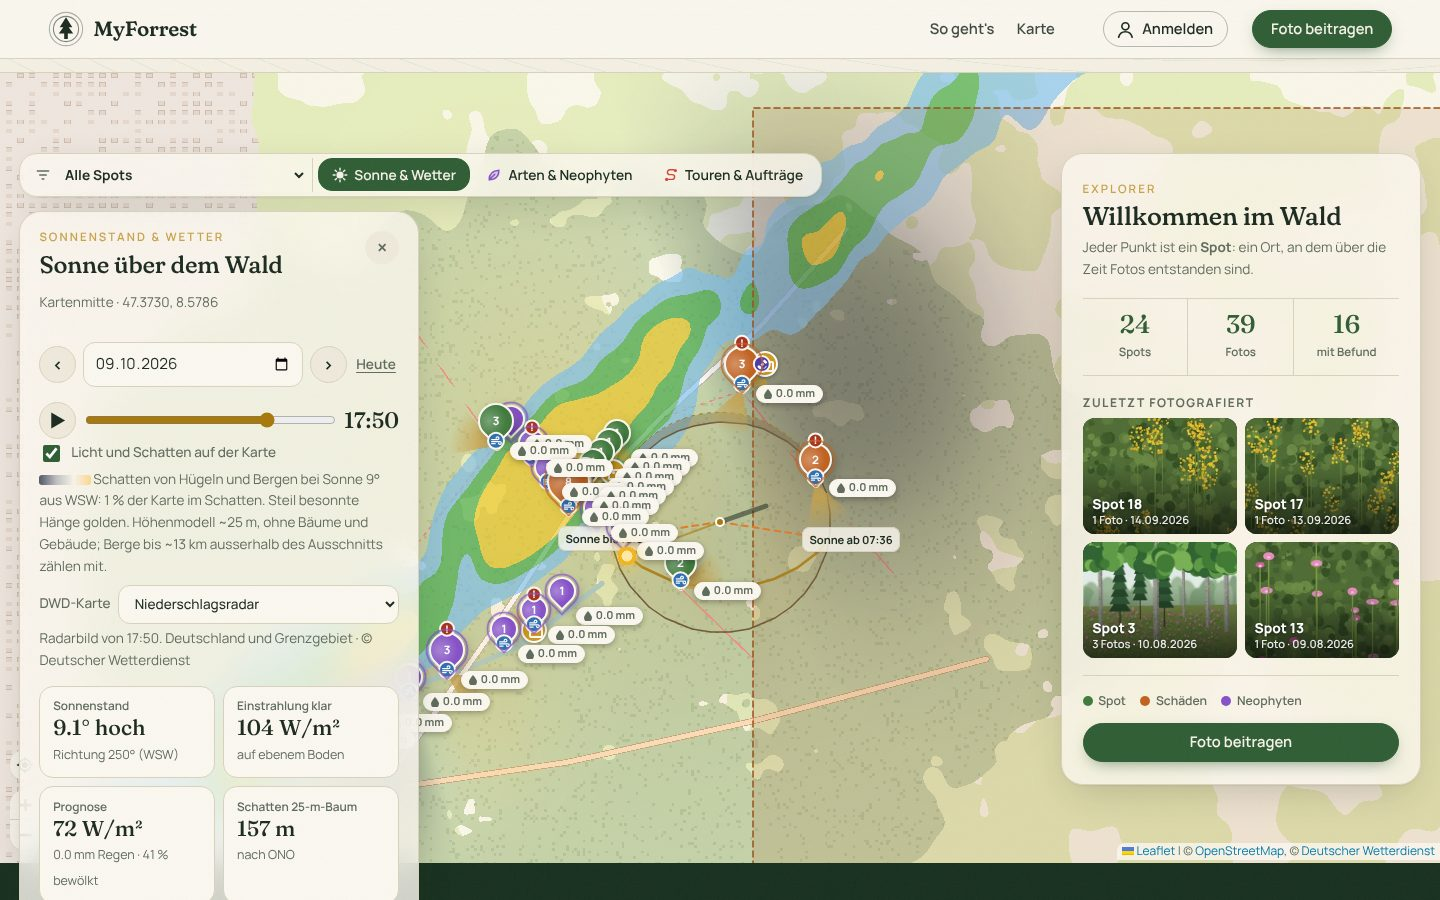
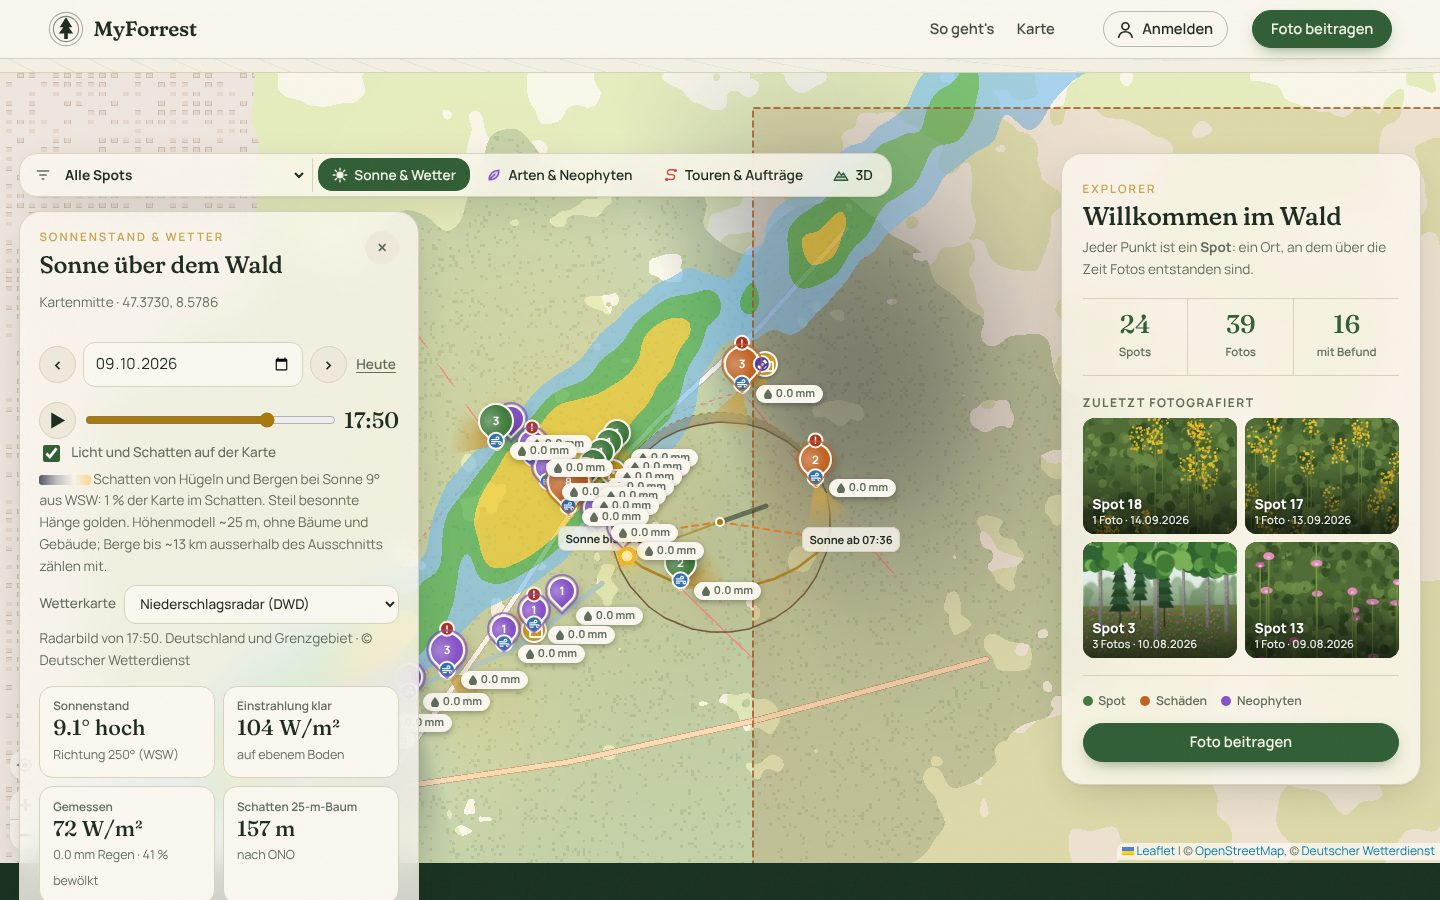
Radar der MeteoSchweiz auch über der grossen Karte
In Sonne & Wetter heisst das Feld nun «Wetterkarte» und bietet zuerst das Radar
der MeteoSchweiz an; es folgt der gewählten Uhrzeit über die letzten 24 Stunden
(/api/radar/ch?hours=24), sonst das neueste Bild, ohne Flackern beim Verschieben.
DWD-Karten mit «(DWD)» im Namen. Screenshot radar-karte.jpg, Doku, Test.

Claude-Session: https://claude.ai/code/session_01TnTu4rwAU67p9z5KpkKsBt

Changed region(s): [[0.0312, 0.6533, 0.2188, 0.6844], [0.5625, 0.1556, 0.625, 0.2178], [0.0312, 0.8711, 0.0625, 0.9022]]

diff --git a/public/sunmap.js b/public/sunmap.js
@@ -484,10 +484,13 @@
   try { $('shade-toggle').checked = localStorage.getItem('myforrest.shade') !== '0'; } catch { /* private mode */ }
   map.on('moveend', () => shadeOn() && drawShade());
 
-  /* ---------- Maps of the Deutscher Wetterdienst ---------- */
+  /* ---------- Weather maps: MeteoSwiss radar, maps of the Deutscher Wetterdienst ---------- */
 
   let dwdInfo = null;
   let dwdLayer = null;
+  let chRadar = null; // /api/radar/ch?hours=24, refreshed every two minutes
+  let chLayer = null;
+  let chToken = 0;
   async function loadDwd() {
     if (dwdInfo) return;
     try {
@@ -498,13 +501,64 @@
     const select = $('dwd-layer');
     let saved = '';
     try { saved = localStorage.getItem('myforrest.dwd') || ''; } catch { /* private mode */ }
-    select.replaceChildren(el('option', { value: '', text: 'keine' }), ...dwdInfo.layers.map((l) => el('option', { value: l.id, text: l.title })));
-    if (dwdInfo.layers.some((l) => l.id === saved)) select.value = saved;
+    select.replaceChildren(
+      el('option', { value: '', text: 'keine' }),
+      ...(state.config.radarCh ? [el('option', { value: 'radar-ch', text: 'Radar MeteoSchweiz' })] : []),
+      ...dwdInfo.layers.map((l) => el('option', { value: l.id, text: `${l.title} (DWD)` })),
+    );
+    if ([...select.options].some((o) => o.value === saved)) select.value = saved;
     drawDwd();
+  }
+
+  /**
+   * The MeteoSwiss radar over the map: the picture at the chosen time while there is one (the last
+   * 24 hours, every 5 minutes), otherwise the newest.
+   */
+  async function drawCh() {
+    const status = $('dwd-status');
+    const token = ++chToken;
+    if (!chRadar || Date.now() - chRadar.at > 120000) {
+      chRadar = { at: Date.now(), ...(await api('/api/radar/ch?hours=24').catch((err) => ({ frames: [], error: err.message }))) };
+    }
+    if (token !== chToken || $('dwd-layer').value !== 'radar-ch' || !sm.open) return;
+    const frames = chRadar.frames || [];
+    if (!frames.length) {
+      chLayer?.remove();
+      chLayer = null;
+      status.hidden = false;
+      status.textContent = `Radar der MeteoSchweiz nicht verfügbar${chRadar.error ? ` (${chRadar.error})` : ''}.`;
+      return;
+    }
+    const t = dayStart(sm.date) + sm.minute * 60000;
+    const at = frames.filter((f) => Date.parse(f.time) <= t + 150000 && Date.parse(f.time) > t - 600000).pop();
+    const frame = at || frames[frames.length - 1];
+    if (chLayer?._url !== frame.url) {
+      const next = L.imageOverlay(frame.url, chRadar.bounds, {
+        opacity: 0.7, pane: 'dwd', interactive: false, className: 'radar-img',
+        attribution: '&copy; <a href="https://www.meteoschweiz.admin.ch/">MeteoSchweiz</a>',
+      }).addTo(map);
+      // Swap once the new picture is there, so moving the clock does not flicker.
+      const old = chLayer;
+      next.once('load', () => old?.remove());
+      setTimeout(() => old?.remove(), 3000);
+      chLayer = next;
+    }
+    status.hidden = false;
+    status.textContent = `${at ? `Radarbild von ${clock(Date.parse(frame.time))}.`
+      : `Neuestes Radarbild von ${clock(Date.parse(frame.time))} – Bilder gibt es für die letzten 24 Stunden.`} Schweiz mit Rand · Quelle: MeteoSchweiz`;
   }
 
   function drawDwd() {
     const status = $('dwd-status');
+    if ($('dwd-layer').value === 'radar-ch' && sm.open && sm.date) {
+      dwdLayer?.remove();
+      dwdLayer = null;
+      drawCh();
+      return;
+    }
+    chToken += 1;
+    chLayer?.remove();
+    chLayer = null;
     const layer = dwdInfo?.layers.find((l) => l.id === $('dwd-layer').value);
     if (!sm.open || !layer || !sm.date) {
       dwdLayer?.remove();

diff --git a/src/routes/radar-ch.js b/src/routes/radar-ch.js
@@ -11,8 +11,11 @@
  * map as an image between the composite's corners. MCH_RADAR_URL= (empty) turns it off; then
  * the weather tab shows the DWD radar.
  *
- *   GET /api/radar/ch                    { frames: [{ time, url }], bounds, attribution } of the last 2 hours
+ *   GET /api/radar/ch[?hours=1–24]       { frames: [{ time, url }], bounds, attribution } of the last 2 (or given) hours
  *   GET /api/radar/ch/{YYYYMMDDHHMM}.png  the picture of one time (UTC)
+ *
+ * The weather tab plays the last two hours; the sun & weather mode of the big map follows its
+ * clock back over the last day.
  */
 
 const fs = require('node:fs');
@@ -23,8 +26,9 @@ const { wgs84ToLv95, lv95ToWgs84 } = require('../lv95');
 
 const DEFAULT_URL = 'https://data.geo.admin.ch/api/stac/v1/collections/ch.meteoschweiz.ogd-radar-precip';
 const LIST_TTL = 2 * 60000;
-const WINDOW = 2 * 3600000; // frames offered: the last two hours
-const KEEP = 6 * 3600000; // pictures kept on disk
+const WINDOW = 2 * 3600000; // frames offered by default: the last two hours
+const MAX_WINDOW = 24 * 3600000; // at most, for the big map's clock
+const KEEP = 26 * 3600000; // pictures kept on disk
 const MAX_BYTES = 20 * 1024 * 1024;
 const WIDTH = 1400; // px of a picture, ~0.5 km per pixel over Switzerland
 // The composite's grid when a file does not say (MeteoSwiss Cartesian grid, LV95).
@@ -157,7 +161,7 @@ function registerMchRadar(app, { dataDir, url = DEFAULT_URL, fetchImpl = fetch, 
   /** Radar files of the last hours from the STAC collection: time → href. */
   async function files() {
     if (listing && now() - listing.at < LIST_TTL) return listing;
-    const since = new Date(now() - WINDOW - 3600000);
+    const since = new Date(now() - MAX_WINDOW - 3600000);
     // Daily items (and items per file alike): everything from the start of that day on.
     let next = `${url}/items?datetime=${since.toISOString().slice(0, 10)}T00:00:00Z/..&limit=100`;
     const found = new Map();
@@ -172,7 +176,7 @@ function registerMchRadar(app, { dataDir, url = DEFAULT_URL, fetchImpl = fetch, 
             if (t === null || !asset.href) continue;
             const href = new URL(asset.href, next);
             if (href.host !== host || href.protocol !== 'https:') continue; // only files of the open data service
-            if (t > now() - WINDOW - 600000) found.set(t, href.href);
+            if (t > now() - MAX_WINDOW - 600000) found.set(t, href.href);
           }
         }
         next = (body.links || []).find((l) => l.rel === 'next')?.href || null;
@@ -210,7 +214,8 @@ function registerMchRadar(app, { dataDir, url = DEFAULT_URL, fetchImpl = fetch, 
   app.get('/api/radar/ch', async (req, res) => {
     if (!url) return res.status(404).json({ error: 'Kein Radar der MeteoSchweiz eingerichtet' });
     const l = await files();
-    const times = [...l.files.keys()].filter((t) => t >= now() - WINDOW).sort((a, b) => a - b);
+    const hours = Math.max(1, Math.min(24, Number(req.query.hours) || WINDOW / 3600000));
+    const times = [...l.files.keys()].filter((t) => t >= now() - hours * 3600000).sort((a, b) => a - b);
     res.set('Cache-Control', 'no-cache');
     res.json({
       frames: times.map((t) => ({ time: new Date(t).toISOString(), url: `/api/radar/ch/${stamp(t)}.png` })),

diff --git a/scripts/screenshots/shoot.js b/scripts/screenshots/shoot.js
@@ -153,6 +153,17 @@ const pin = (page, id) => page.locator(`.leaflet-marker-icon[title="Spot ${id}"]
     await page.evaluate(() => document.activeElement?.blur());
     await page.screenshot({ path: out('licht-schatten.jpg'), ...jpg });
     await page.selectOption('#dwd-layer', '');
+    // The MeteoSwiss radar over the big map, now: the demo's rain front over the forest.
+    await page.click('#sun-today');
+    await page.evaluate(() => { const s = document.querySelector('#sun-slider'); s.value = new Date().getHours() * 60 + new Date().getMinutes(); s.dispatchEvent(new Event('input', { bubbles: true })); });
+    await page.uncheck('#shade-toggle');
+    await page.selectOption('#dwd-layer', 'radar-ch');
+    await page.evaluate(() => map.setView([47.25, 8.45], 9, { animate: false }));
+    await settle(page, 5000);
+    await page.evaluate(() => document.activeElement?.blur());
+    await page.screenshot({ path: out('radar-karte.jpg'), ...jpg });
+    await page.selectOption('#dwd-layer', '');
+    await page.check('#shade-toggle');
     await page.close();
   }
 

diff --git a/test/radar-ch.test.js b/test/radar-ch.test.js
@@ -112,6 +112,10 @@ test('route: frames of the last two hours, pictures fetched once and kept', asyn
     assert.ok(times.every((t, i) => i === 0 || t - times[i - 1] === 300000), 'every 5 minutes, oldest first');
     assert.ok(Date.now() - times[0] <= 2 * 3600000 + 300000);
     assert.match(asked[0], /\/items\?datetime=\d{4}-\d{2}-\d{2}T00:00:00Z\/\.\.&limit=100$/);
+    // The big map asks for more of the last day (here the stand-in has three hours).
+    const day = await (await fetch(`${base}/api/radar/ch?hours=24`)).json();
+    assert.ok(day.frames.length >= 34 && day.frames.length <= 37, `${day.frames.length} frames over 24 h`);
+    assert.equal((await (await fetch(`${base}/api/radar/ch?hours=99`)).json()).frames.length, day.frames.length, 'at most 24 h');
 
     const newest = list.frames[list.frames.length - 1].url;
     const [a, b] = await Promise.all([fetch(`${base}${newest}`), fetch(`${base}${newest}`)]);

diff --git a/public/index.html b/public/index.html
@@ -149,7 +149,7 @@
         <label class="toggle small"><input type="checkbox" id="shade-toggle" checked> Licht und Schatten auf der Karte</label>
         <p id="shade-status" class="muted small" hidden></p>
         <div class="dwd-row">
-          <label class="small" for="dwd-layer">DWD-Karte</label>
+          <label class="small" for="dwd-layer">Wetterkarte</label>
           <select id="dwd-layer" class="small"><option value="">keine</option></select>
         </div>
         <p id="dwd-status" class="muted small" hidden></p>

diff --git a/docs/funktionen.md b/docs/funktionen.md
@@ -1050,15 +1050,24 @@ funktioniert die 3D-Karte wie im Browser.
 
 ![Die Umgebung eines Spots in 3D, in seine Blickrichtung](screenshots/karte-3d-spot.jpg)
 
-### DWD-Karten einblenden
+### Wetterkarten einblenden
 
-Unter *DWD-Karte* lässt sich eine Karte des Deutschen Wetterdienstes über die Karte legen (WMS von
-`maps.dwd.de`, frei mit Quellenangabe):
+Unter *Wetterkarte* lässt sich das Radar der MeteoSchweiz oder eine Karte des Deutschen Wetterdienstes über die
+Karte legen:
 
-- **Niederschlagsradar**: das Radarbild zur gewählten Zeit (5-Minuten-Schritte), solange der DWD es noch
+![Niederschlagsradar der MeteoSchweiz über der grossen Karte](screenshots/radar-karte.jpg)
+
+- **Radar MeteoSchweiz**: das Niederschlagsradar für die ganze Schweiz mit Rand (siehe
+  [Wetter am Spot](#wetter-am-spot)), das Bild zur gewählten Zeit, solange es eines gibt (die letzten 24 Stunden
+  in 5-Minuten-Schritten, `GET /api/radar/ch?hours=24`), sonst das neueste; das Panel sagt, welches gezeigt
+  wird. Beim Verschieben der Uhrzeit bleibt das alte Bild stehen, bis das neue geladen ist.
+
+Die Karten des DWD (WMS von `maps.dwd.de`, frei mit Quellenangabe):
+
+- **Niederschlagsradar (DWD)**: das Radarbild zur gewählten Zeit (5-Minuten-Schritte), solange der DWD es noch
   vorhält, sonst das neueste; das Panel sagt, welches gezeigt wird.
-- **Wetterwarnungen**: die aktuellen Warnungen nach Gemeinden.
-- **Waldbrandgefahr**, sobald der DWD eine solche Ebene anbietet.
+- **Wetterwarnungen (DWD)**: die aktuellen Warnungen nach Gemeinden.
+- **Waldbrandgefahr (DWD)**, sobald der DWD eine solche Ebene anbietet.
 
 Welche Ebenen es gibt und für welche Zeiten das Radar Bilder hat, liest der Server einmal pro Stunde aus den
 Capabilities des DWD (`GET /api/dwd/layers`); ist der DWD nicht erreichbar, bietet er Radar und Warnungen

diff --git a/docs/roadmap.md b/docs/roadmap.md
@@ -46,7 +46,7 @@ mit echten Dateien und Diensten; das steht jeweils als offener Punkt dabei.
   nur mit Beispieldateien im selben Format geprüft).
 
 - **Wetter am Spot ausbauen**: das Radar der MeteoSchweiz mit echten Dateien prüfen (gebaut nach der
-  Dokumentation und mit einer nachgebauten Datei im ODIM-Aufbau) und es auch über die grosse Karte legen;
+  Dokumentation und mit einer nachgebauten Datei im ODIM-Aufbau);
   Unwetterwarnungen der MeteoSchweiz; Vorhersage und DWD-Radar mit echten Abfragen im Betrieb prüfen.
 
 ## Phase 3: Automatische Auswertung
@@ -115,7 +115,8 @@ Aus früheren Versionen dieser Roadmap, nach Themen:
 - Licht & Wald auf der Spot-Seite: Horizont aus dem Höhenmodell, Sonnenbogen und Sonnenstand, Baumarten in ihrer
   Jahreszeit, Wetter der Stunde (Wolken, Regen, Schneefall, Schneedecke, Glätte), im Stil der Startseite
 - Wetter am Spot: Niederschlagsradar der MeteoSchweiz für die ganze Schweiz (sonst DWD) als Film der letzten zwei
-  Stunden, Vorhersage für 24 Stunden und sieben Tage
+  Stunden, Vorhersage für 24 Stunden und sieben Tage; das Radar der MeteoSchweiz auch über der grossen Karte
+  (*Sonne & Wetter*, folgt der Uhrzeit über die letzten 24 Stunden)
 - Durchgehen wie Street View: Pfeile entlang der Aufnahme und zu Spots in der Nähe, Blickrichtung bleibt beim Schritt
 - Startseite mit wechselnden Landschaften (Wald, Gletscher, Gebirge, Wüste)
 - Weiche Übergänge im Durchgehen: zum Weg drehen, Zoom in Gehrichtung mit Überblendung

diff --git a/docs/architektur.md b/docs/architektur.md
@@ -114,7 +114,7 @@ docs/                Dokumentation; docs/screenshots/ enthält die Bilder für d
 mkdocs.yml           Doku-Website aus docs/ (MkDocs Material), gebaut und veröffentlicht von .github/workflows/docs.yml
 public/              Frontend (Leaflet, ohne Build-Schritt; forest.js zeichnet die Landschaften der Startseite (Wald, Gletscher, Gebirge, Wüste) und wechselt sie,
                      sun.js berechnet Sonnenstand und Einstrahlung, shade.js Gelände- und Nachtschatten,
-                     sunmap.js den Kartenmodus „Sonne & Wetter“ (mit Licht und Schatten und DWD-Karten),
+                     sunmap.js den Kartenmodus „Sonne & Wetter“ (mit Licht und Schatten, Radar der MeteoSchweiz und DWD-Karten),
                      hotspots.js den Kartenmodus „Arten & Neophyten“,
                      tours.js den Kartenmodus „Touren & Aufträge“ (Route zeichnen, aufzeichnen, importieren, Fotoaufträge),
                      video.js den Video-Upload und die 360°-Ansicht,
